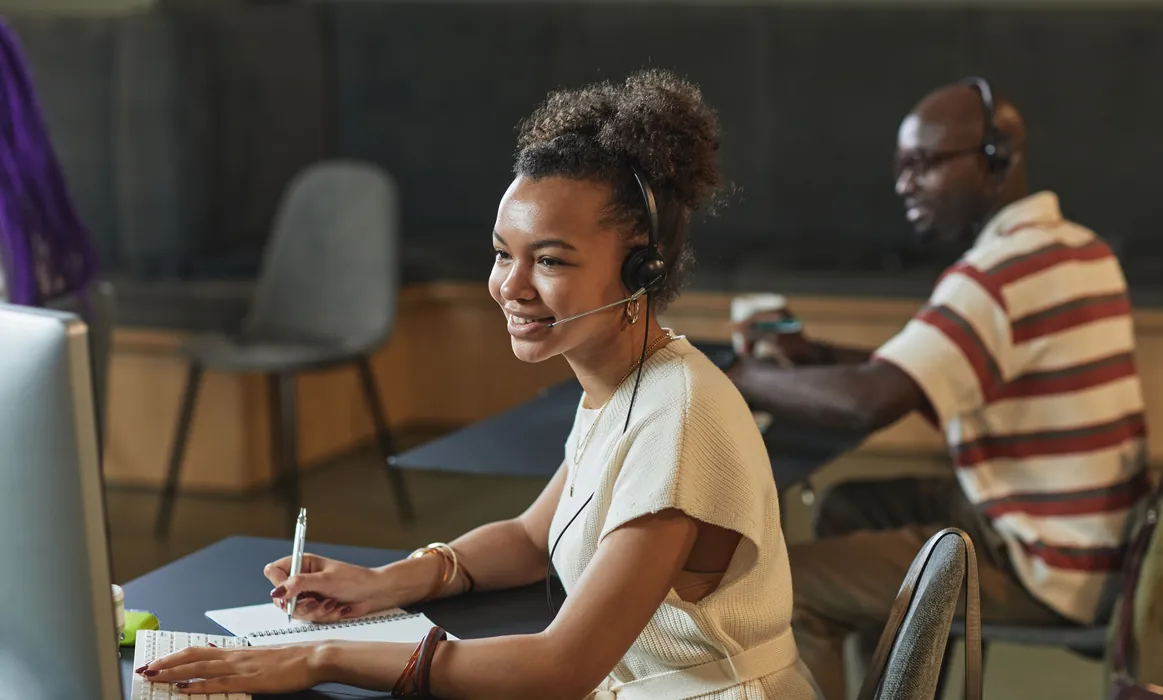
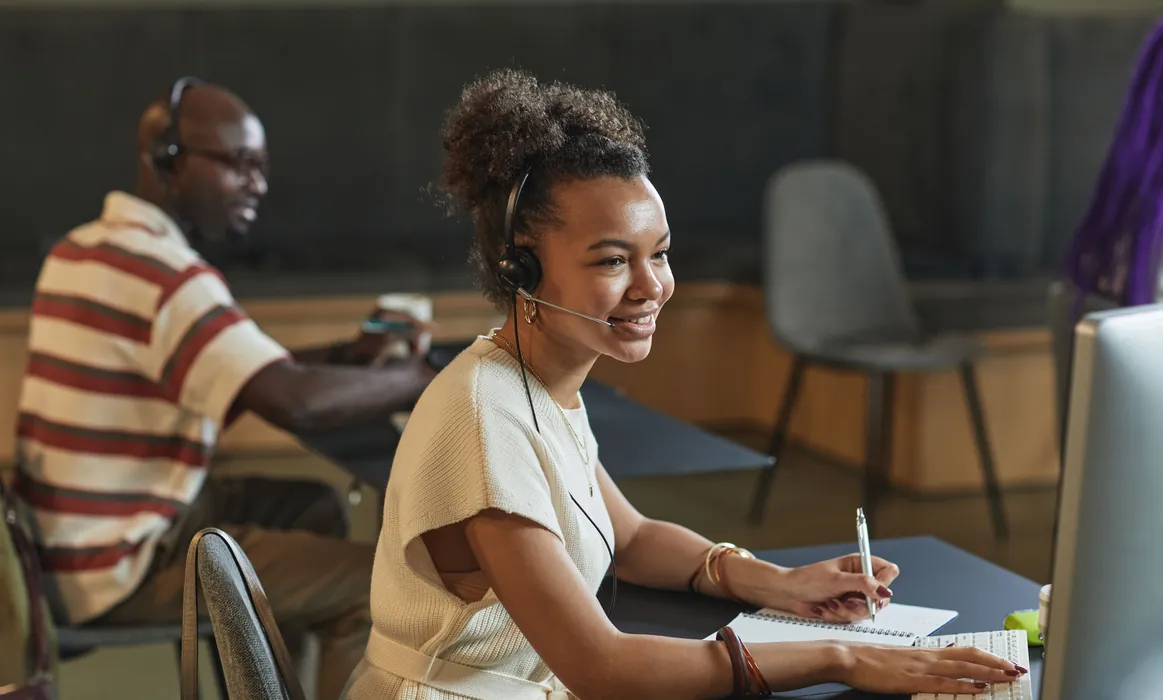
feat(web): photo « étapes » de l'accueil remplacée par la conseillère au casque

diff --git a/apps/web/src/app/page.tsx b/apps/web/src/app/page.tsx
@@ -377,7 +377,7 @@ export default async function HomePage() {
           <div className="row mt-minus-300px lg-mt-0">
             <div className="col-md-6 sm-pb-40px" data-anime={fadeIn()}>
               <div className="position-sticky top-0 h-100vh lg-h-auto pt-12 pb-12 lg-pb-0 sm-pt-40px d-flex align-items-center">
-                <img className="border-radius-20px" src="/images/accueil/etapes.webp" alt="Une cliente décrit son besoin au téléphone" />
+                <img className="border-radius-20px" src="/images/accueil/etapes.webp" alt="Une conseillère Jeflink au casque, aux côtés d’une collègue" />
               </div>
             </div>
             <div className="col-md-6 col-xxl-5 ps-9 md-ps-15px xxl-ps-5 lg-pt-6 sm-pt-0 position-relative text-center text-md-start">

diff --git a/apps/web/scripts/build-images.py b/apps/web/scripts/build-images.py
@@ -27,7 +27,7 @@ def face(name: str) -> Path:
 # sortie, source, (largeur, hauteur), point d'intérêt (x, y en 0..1), traitement
 PLAN = [
     # Accueil
-    ("accueil/etapes.webp", ji(92), (865, 700), (0.55, 0.4), "anneaux"),
+    ("accueil/etapes.webp", SRC / "assistance.jpg", (865, 700), (0.35, 0.45), "anneaux"),
     # Pros de démo (cartes « équipe »)
     ("pros/mamadou.webp", ji(85), (600, 742), (0.62, 0.45), None),
     ("pros/ousmane.webp", ji(63), (600, 742), (0.5, 0.45), None),
